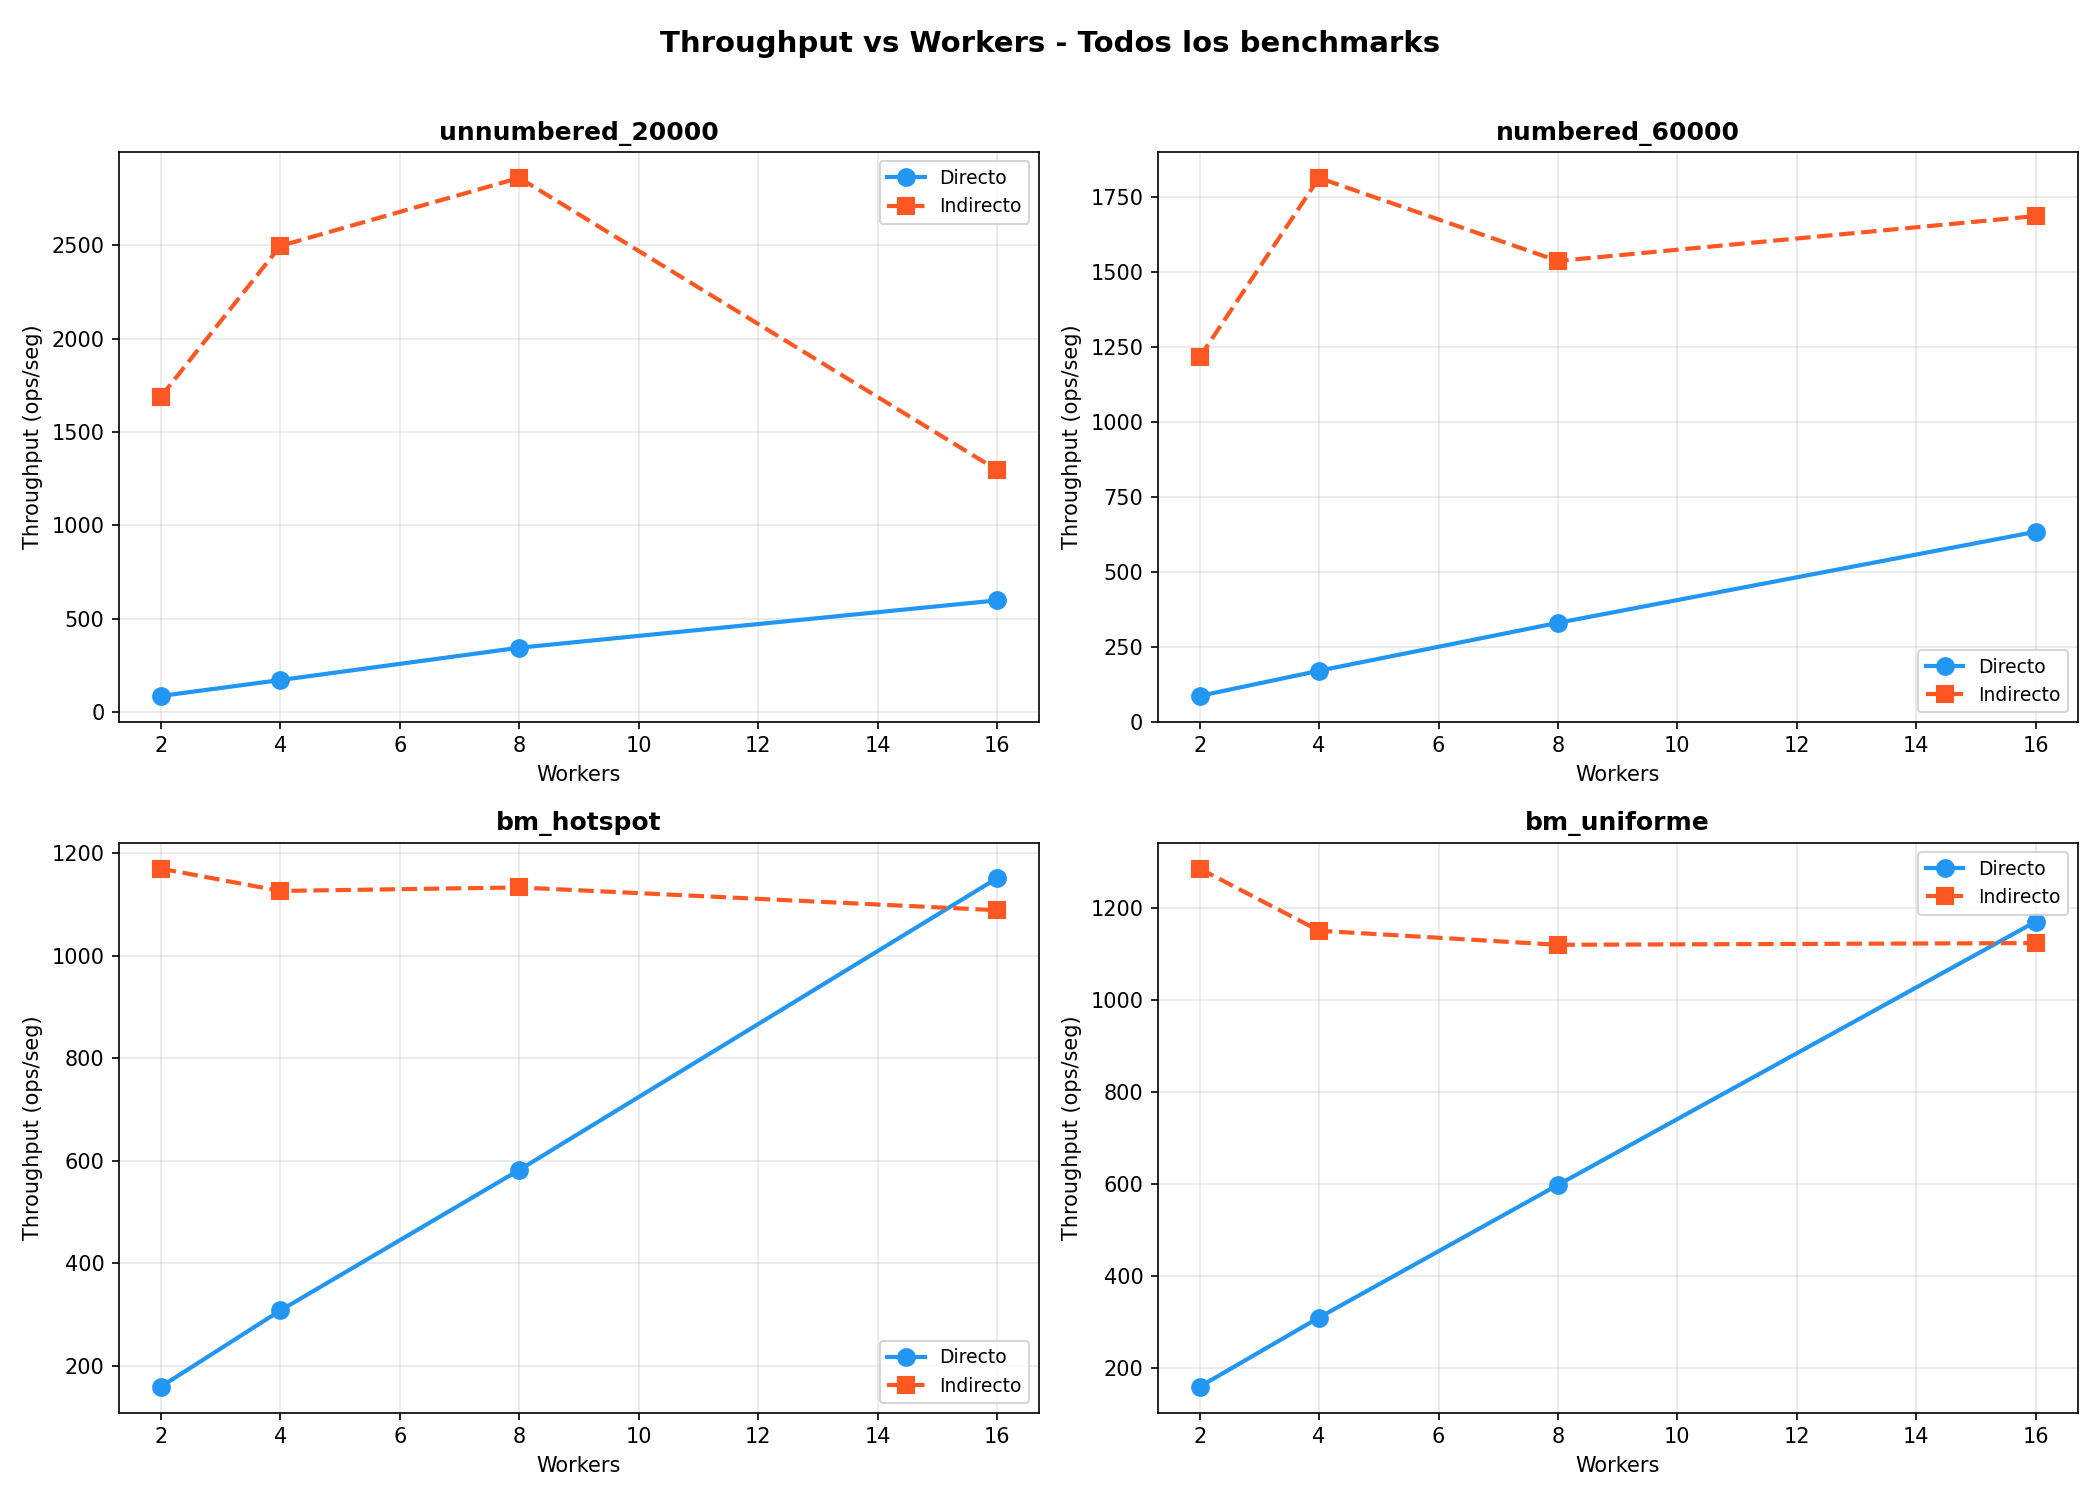
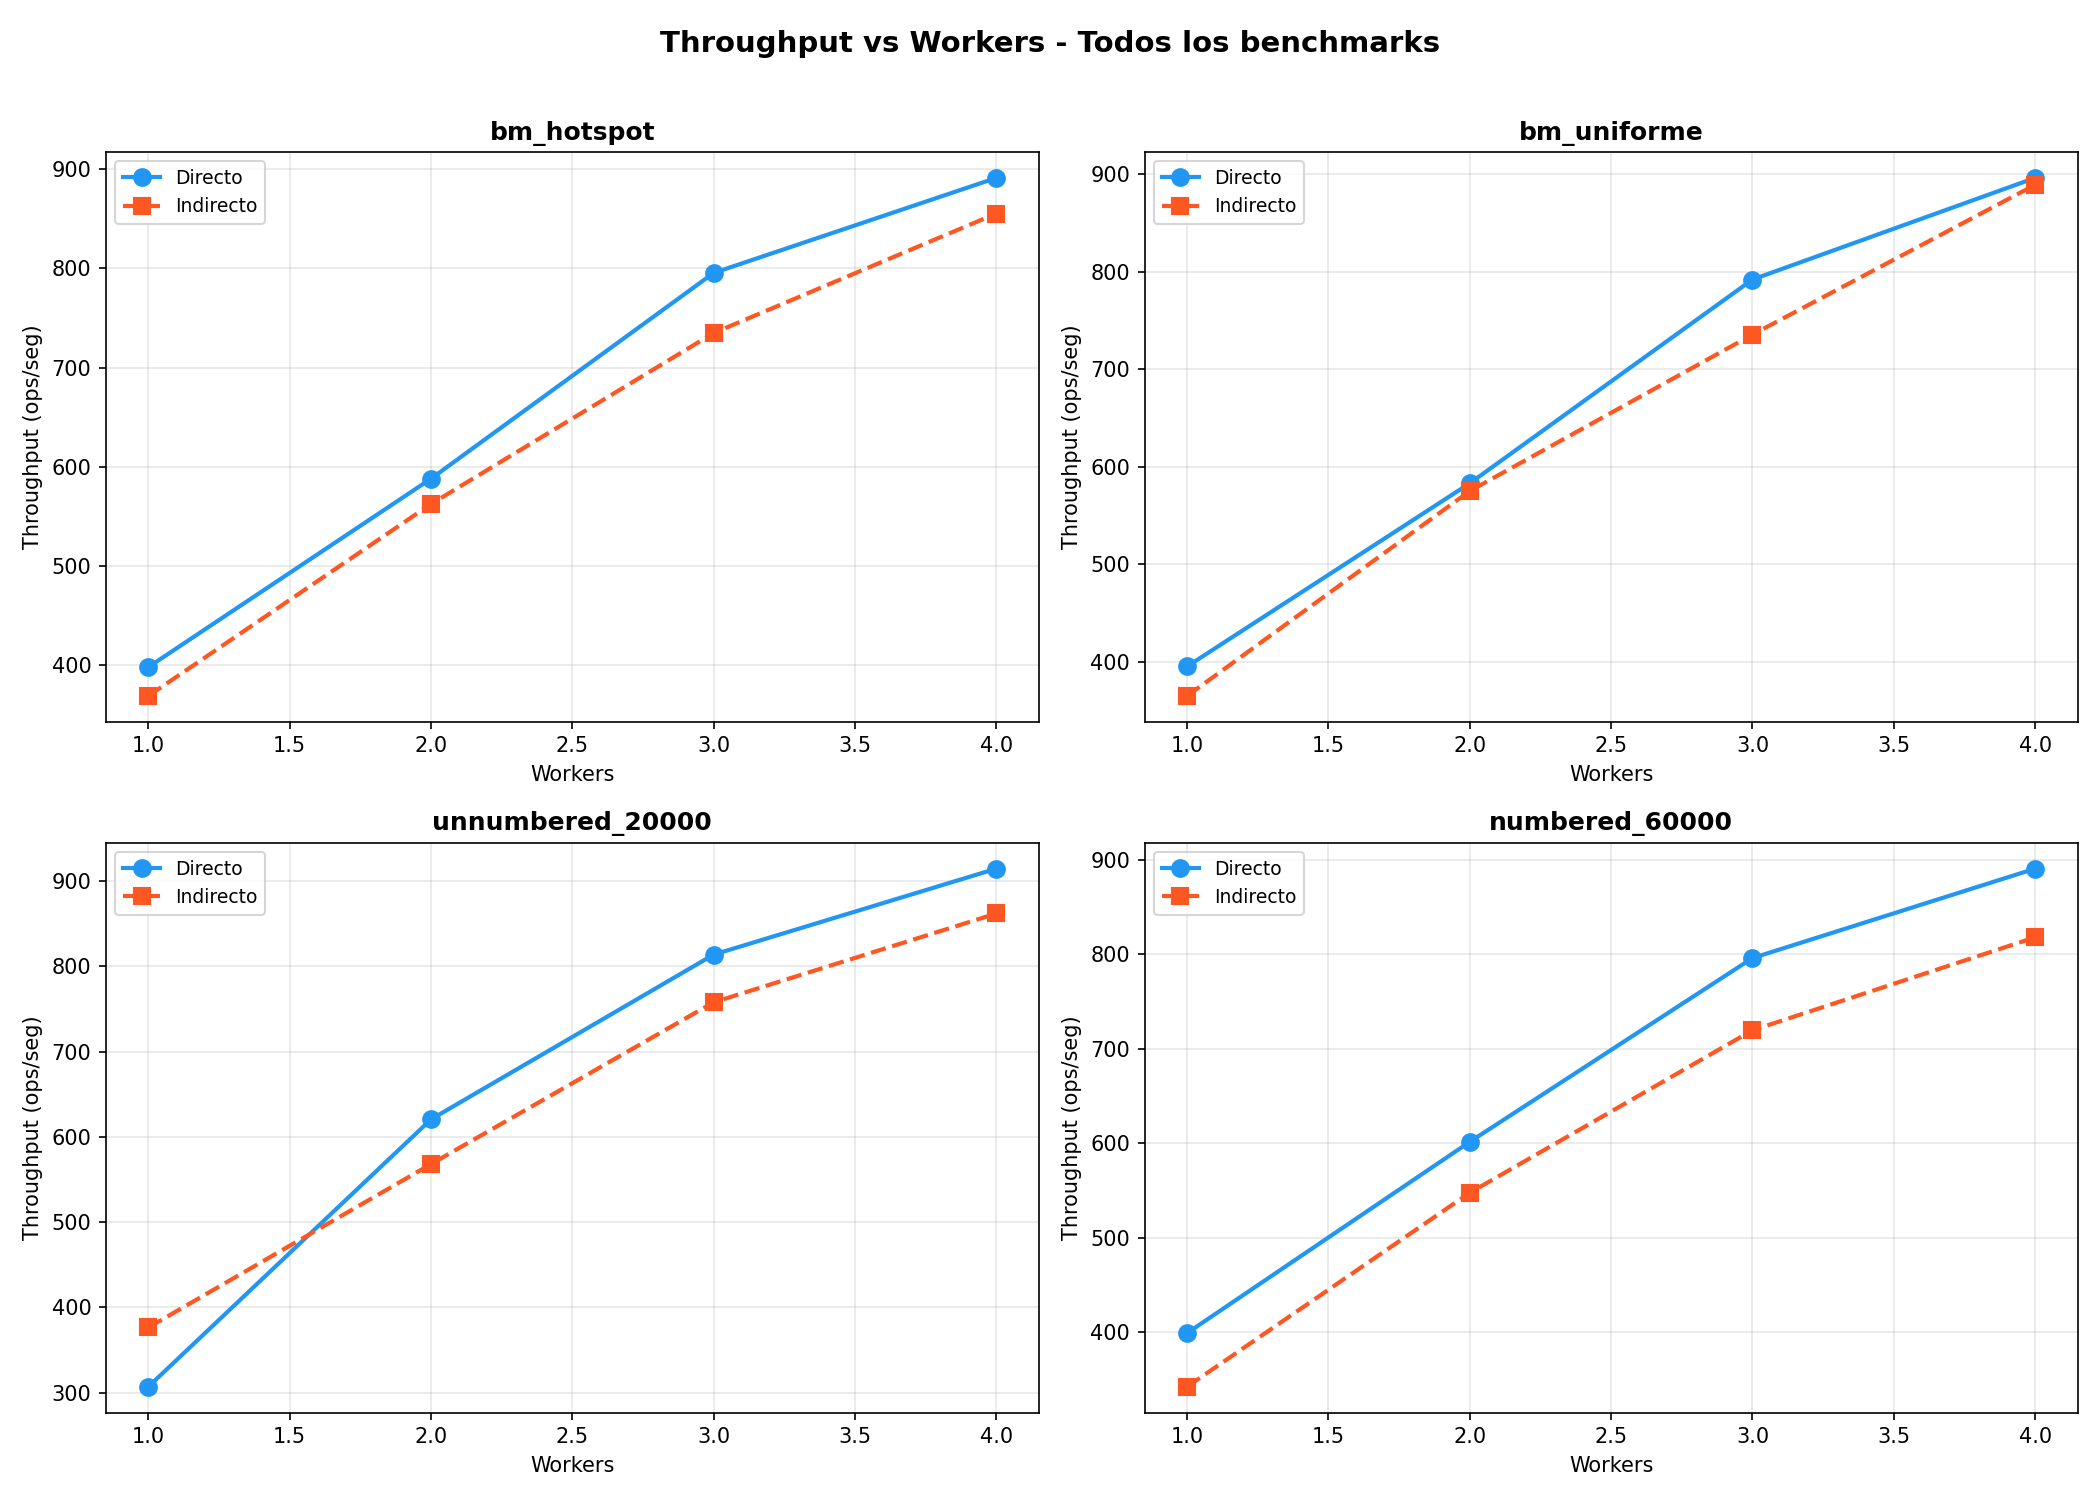
benchmarks completos: hotspot, uniforme, numeradas y no numeradas con graficas

diff --git a/scripts/run_benchmarks_locales.py b/scripts/run_benchmarks_locales.py
@@ -34,7 +34,7 @@ BENCHMARKS = [
     ("bm_hotspot.txt", os.path.join(ROOT_DIR, "benchmarks", "bm_hotspot.txt")),
     ("bm_uniforme.txt", os.path.join(ROOT_DIR, "benchmarks", "bm_uniforme.txt")),
 ]
-WORKER_COUNTS = [2, 4, 8, 16]
+WORKER_COUNTS = [1, 2, 3, 4]
 CSV_FILE = os.path.join(ROOT_DIR, "metricas_finales.csv")
 
 def reset_all():
@@ -63,7 +63,6 @@ class BenchmarkWorker:
 
     def comprar(self, client_id, request_id, seat_id=None):
         self.count += 1
-        time.sleep(0.01)
         if seat_id is None:
             res = self.svc.comprar_no_numerada(client_id, request_id)
         else:
@@ -74,32 +73,34 @@ def run_direct_benchmark(benchmark_name, benchmark_path, num_workers):
     print(f"\n--- DIRECTO: {benchmark_name}, workers={num_workers} ---")
     reset_all()
 
-    # 1. Iniciar NS
-    ns_stop = threading.Event()
-    def start_ns():
-        try:
-            Pyro4.naming.startNSloop(host="localhost", port=9090)
-        except:
-            pass
-    t = threading.Thread(target=start_ns, daemon=True)
-    t.start()
-    time.sleep(1)
-
-    # Verificar NS
+    # 1. Iniciar/reusar NS
     try:
-        Pyro4.locateNS(host="localhost")
-    except Exception as e:
-        print(f"  Error NS: {e}")
-        return
+        ns = Pyro4.locateNS(host="localhost")
+        # Limpiar registros viejos
+        for name in list(ns.list(prefix="tickets.worker.").keys()):
+            try:
+                ns.remove(name)
+            except:
+                pass
+    except Exception:
+        def start_ns():
+            try:
+                Pyro4.naming.startNSloop(host="localhost", port=9090)
+            except:
+                pass
+        t = threading.Thread(target=start_ns, daemon=True)
+        t.start()
+        time.sleep(1)
+        ns = Pyro4.locateNS(host="localhost")
 
     # 2. Iniciar workers
     worker_daemons = []
     def start_worker(wid):
         daemon = Pyro4.Daemon(host="localhost")
-        ns = Pyro4.locateNS(host="localhost")
+        ns_local = Pyro4.locateNS(host="localhost")
         worker = BenchmarkWorker(wid)
         uri = daemon.register(worker)
-        ns.register(f"tickets.worker.{wid}", uri)
+        ns_local.register(f"tickets.worker.{wid}", uri)
         worker_daemons.append(daemon)
         daemon.requestLoop()
 
@@ -156,14 +157,16 @@ def run_direct_benchmark(benchmark_name, benchmark_path, num_workers):
 
     print(f"  Tiempo: {duracion:.2f}s, Throughput: {throughput:.2f} ops/s, OK: {exitos}, FAIL: {fallos}")
 
-    # Guardar en CSV
+    # Guardar en CSV (formato 9 columnas)
     file_exists = os.path.isfile(CSV_FILE)
     with open(CSV_FILE, "a", newline="", encoding="utf-8") as f:
         writer = csv.writer(f)
         if not file_exists:
-            writer.writerow(["modelo","benchmark","workers","tiempo","throughput","success","fail"])
+            writer.writerow(["modelo","benchmark","workers","tiempo_envio","tiempo_total","throughput_envio","throughput_total","success","fail"])
         writer.writerow(["directo", benchmark_name, num_workers,
-                         f"{duracion:.2f}", f"{throughput:.2f}", exitos, fallos])
+                         "", f"{duracion:.2f}",
+                         "", f"{throughput:.2f}",
+                         exitos, fallos])
 
     reset_all()
 
@@ -184,10 +187,10 @@ def run_indirect_benchmark(benchmark_name, benchmark_path, num_workers):
     #    pero con los workers reales.
 
     creds = pika.PlainCredentials("admin", "admin")
-    conn_params = pika.ConnectionParameters(host="localhost", credentials=creds)
+    conn_params = pika.ConnectionParameters(host="localhost", credentials=creds,
+                                             heartbeat=600, blocked_connection_timeout=7200)
 
     # Lanzar workers como hilos
-    worker_stop = threading.Event()
     results_queue = []
 
     def rabbit_worker(wid):
@@ -266,14 +269,16 @@ def run_indirect_benchmark(benchmark_name, benchmark_path, num_workers):
 
     print(f"  Tiempo: {duracion:.2f}s, Throughput: {throughput:.2f} ops/s, OK: {exitos}, FAIL: {fallos}")
 
-    # Guardar en CSV
+    # Guardar en CSV (formato 9 columnas)
     file_exists = os.path.isfile(CSV_FILE)
     with open(CSV_FILE, "a", newline="", encoding="utf-8") as f:
         writer = csv.writer(f)
         if not file_exists:
-            writer.writerow(["modelo","benchmark","workers","tiempo","throughput","success","fail"])
+            writer.writerow(["modelo","benchmark","workers","tiempo_envio","tiempo_total","throughput_envio","throughput_total","success","fail"])
         writer.writerow(["indirecto", benchmark_name, num_workers,
-                         f"{duracion:.2f}", f"{throughput:.2f}", exitos, fallos])
+                         f"{duracion:.2f}", f"{duracion:.2f}",
+                         f"{throughput:.2f}", f"{throughput:.2f}",
+                         exitos, fallos])
 
     reset_all()
 

diff --git a/scripts/generar_graficas.py b/scripts/generar_graficas.py
@@ -15,6 +15,8 @@ os.makedirs(OUTPUT_DIR, exist_ok=True)
 df = pd.read_csv(CSV)
 df["workers"] = df["workers"].astype(int)
 
+COL_THROUGHPUT = "throughput_total" if "throughput_total" in df.columns else "throughput"
+
 benchmarks = df["benchmark"].unique()
 modelos = df["modelo"].unique()
 colores = {"directo": "#2196F3", "indirecto": "#FF5722"}
@@ -28,7 +30,7 @@ for bm in benchmarks:
         data = subset[subset["modelo"] == mod].sort_values("workers")
         if data.empty:
             continue
-        plt.plot(data["workers"], data["throughput"], marcadores[mod],
+        plt.plot(data["workers"], data[COL_THROUGHPUT], marcadores[mod],
                  color=colores[mod], linewidth=2, markersize=8,
                  label=mod.capitalize())
 
@@ -56,7 +58,7 @@ for idx, bm in enumerate(benchmarks):
         data = subset[subset["modelo"] == mod].sort_values("workers")
         if data.empty:
             continue
-        ax.plot(data["workers"], data["throughput"], marcadores[mod],
+        ax.plot(data["workers"], data[COL_THROUGHPUT], marcadores[mod],
                 color=colores[mod], linewidth=2, markersize=8,
                 label=mod.capitalize())
 

diff --git a/scripts/grafica_unnumbered_vs_numbered.py b/scripts/grafica_unnumbered_vs_numbered.py
@@ -5,6 +5,8 @@ import matplotlib.pyplot as plt
 df = pd.read_csv('metricas_finales.csv')
 df['workers'] = df['workers'].astype(int)
 
+COL_TP = 'throughput_total' if 'throughput_total' in df.columns else 'throughput'
+
 bm_unnumbered = 'benchmark_unnumbered_20000.txt'
 bm_numbered = 'benchmark_numbered_60000.txt'
 
@@ -24,7 +26,7 @@ for ax_idx, (title, modelo) in enumerate([
         data = df[(df['modelo'] == modelo) & (df['benchmark'] == bm_file)].sort_values('workers')
         if data.empty:
             continue
-        ax.plot(data['workers'], data['throughput'], marker,
+        ax.plot(data['workers'], data[COL_TP], marker,
                 color=color, linewidth=2.5, markersize=9, label=label)
 
     ax.set_title(title, fontsize=13, fontweight='bold')
